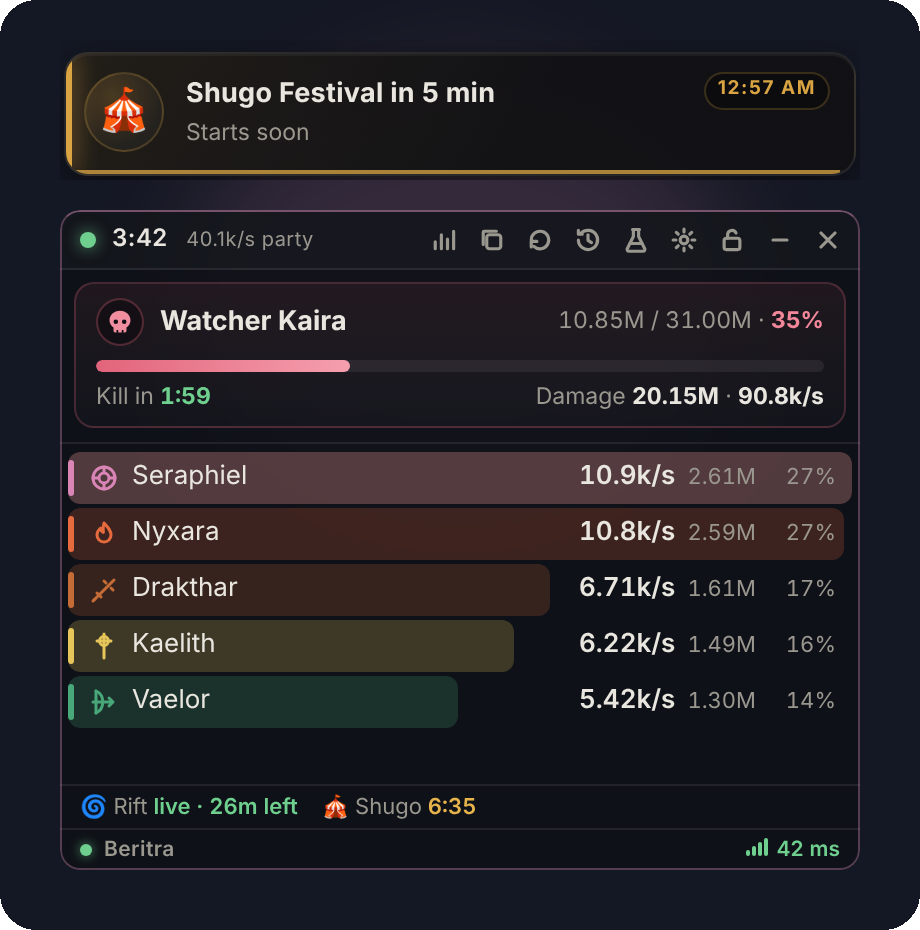
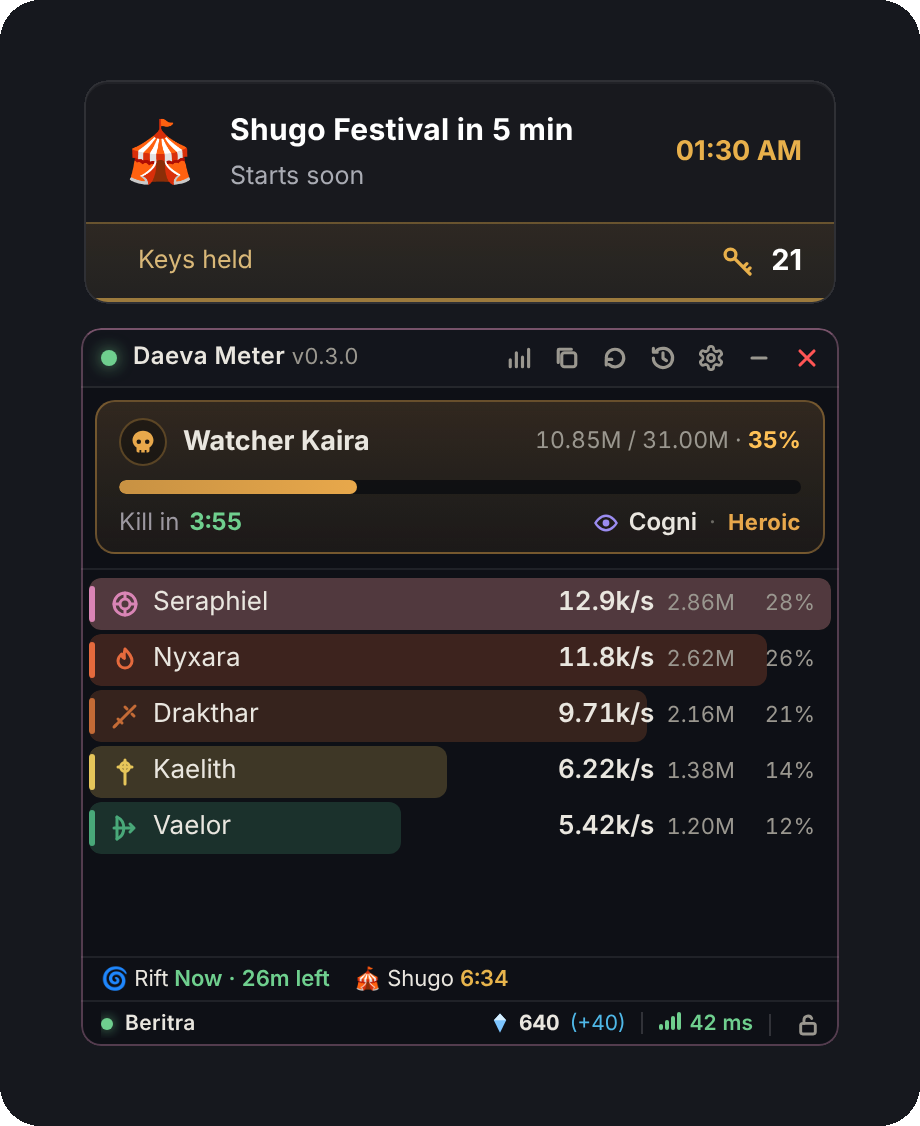
README: 0.3.0 preview image (rendered from the overlay) and updated feature text
Claude-Session: https://claude.ai/code/session_01FZkMKRnrkC21x7NgofpKyD

Changed region(s): [[0.0609, 0.0624, 0.9435, 0.9355], [0.9435, 0.9978, 0.9739, 1.0], [0.0304, 0.9978, 0.0609, 1.0]]

diff --git a/README.md b/README.md
@@ -35,13 +35,13 @@ Live DPS · boss target card · skill breakdowns · event alerts · fight histor
 <td width="50%" valign="top">
 
 ### 📊 Live overlay
-DPS, total damage and share for everyone in the fight, coloured by class, in a small always-on-top window with click-through, opacity and scale.
+DPS, total damage and share for everyone in the fight, coloured by class, in a small always-on-top window with opacity and scale. Lock it in place with `Ctrl+Shift+L`; a status light shows when you're fighting (green) or idle (pulsing amber).
 
 </td>
 <td width="50%" valign="top">
 
 ### 🎯 Target card
-The monster's portrait and name, HP as current / max with a health bar, a **kill-time estimate** and the damage and DPS on it. Turns green with **KILLED** when it falls.
+The monster's portrait and name, its **type** (Cogni, Natura, Fera, Varian, Special) and **rank** colour, HP as current / max with a health bar, a **kill-time estimate**, and how long the kill took.
 
 </td>
 </tr>
@@ -73,6 +73,20 @@ Monster and skill names and game icons arrive automatically. Anything new can be
 
 </td>
 </tr>
+<tr>
+<td valign="top">
+
+### 💎 Your character
+Your **Odyle** energy and **Shugo Festival keys** under the meter, your server, and your **ping** to the game server (also through tunnels such as Mudfish). Switching characters is picked up automatically.
+
+</td>
+<td valign="top">
+
+### 🤝 Party and summons
+Summons and spirits count towards the player who summoned them. Show everyone fighting your target, just your party, or only yourself.
+
+</td>
+</tr>
 </table>
 
 <details>
@@ -85,9 +99,9 @@ Monster and skill names and game icons arrive automatically. Anything new can be
 | Hide / show overlay | `Ctrl+Shift+H` |
 | Copy summary for Discord | `Ctrl+Shift+C` |
 | Report a problem | `Ctrl+Shift+P` |
-| Research marker | `Ctrl+Shift+M` |
+| Research marker (testers) | `Ctrl+Shift+M` |
 
-All of them work while the game has focus and can be changed in Settings.
+All of them work while the game has focus and can be changed in Settings. Research tools for testers are under **Settings → Data → Show research tools**.
 
 </details>
 
